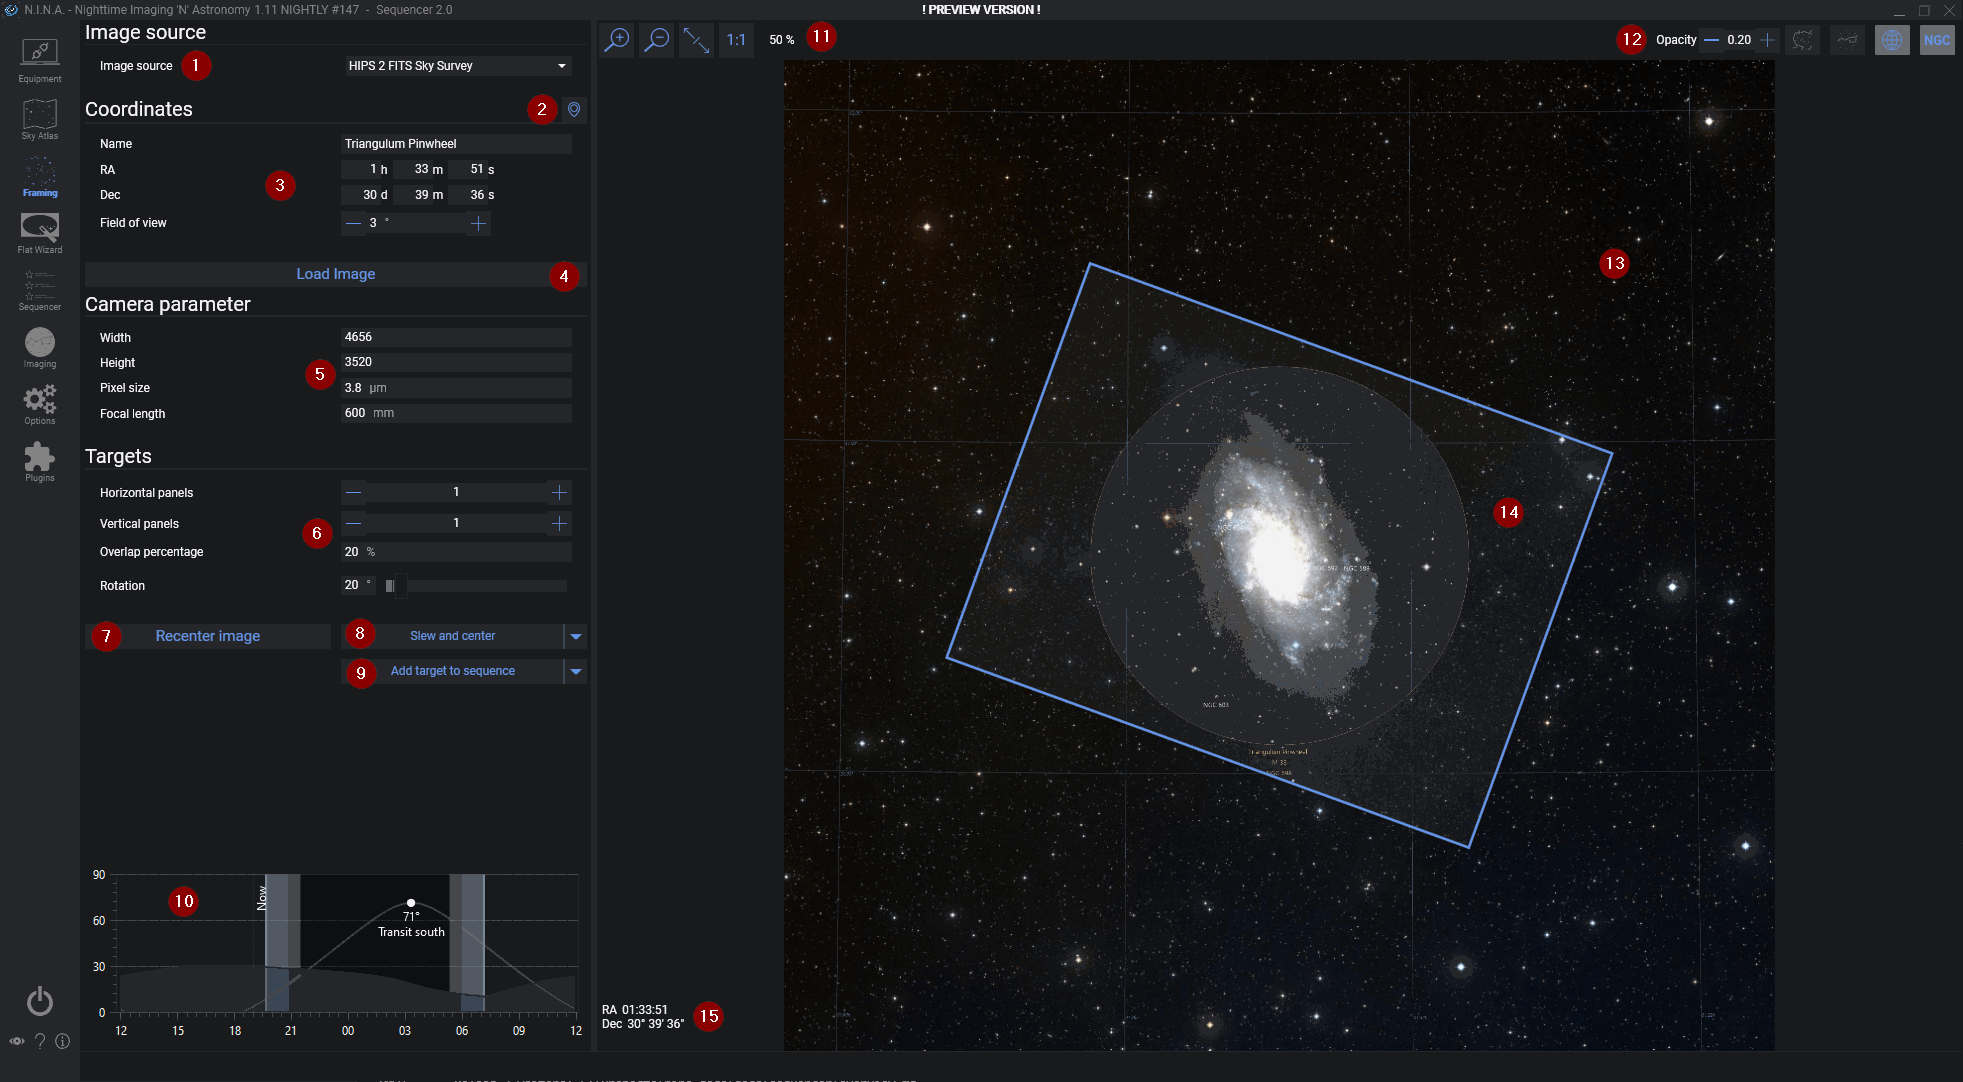
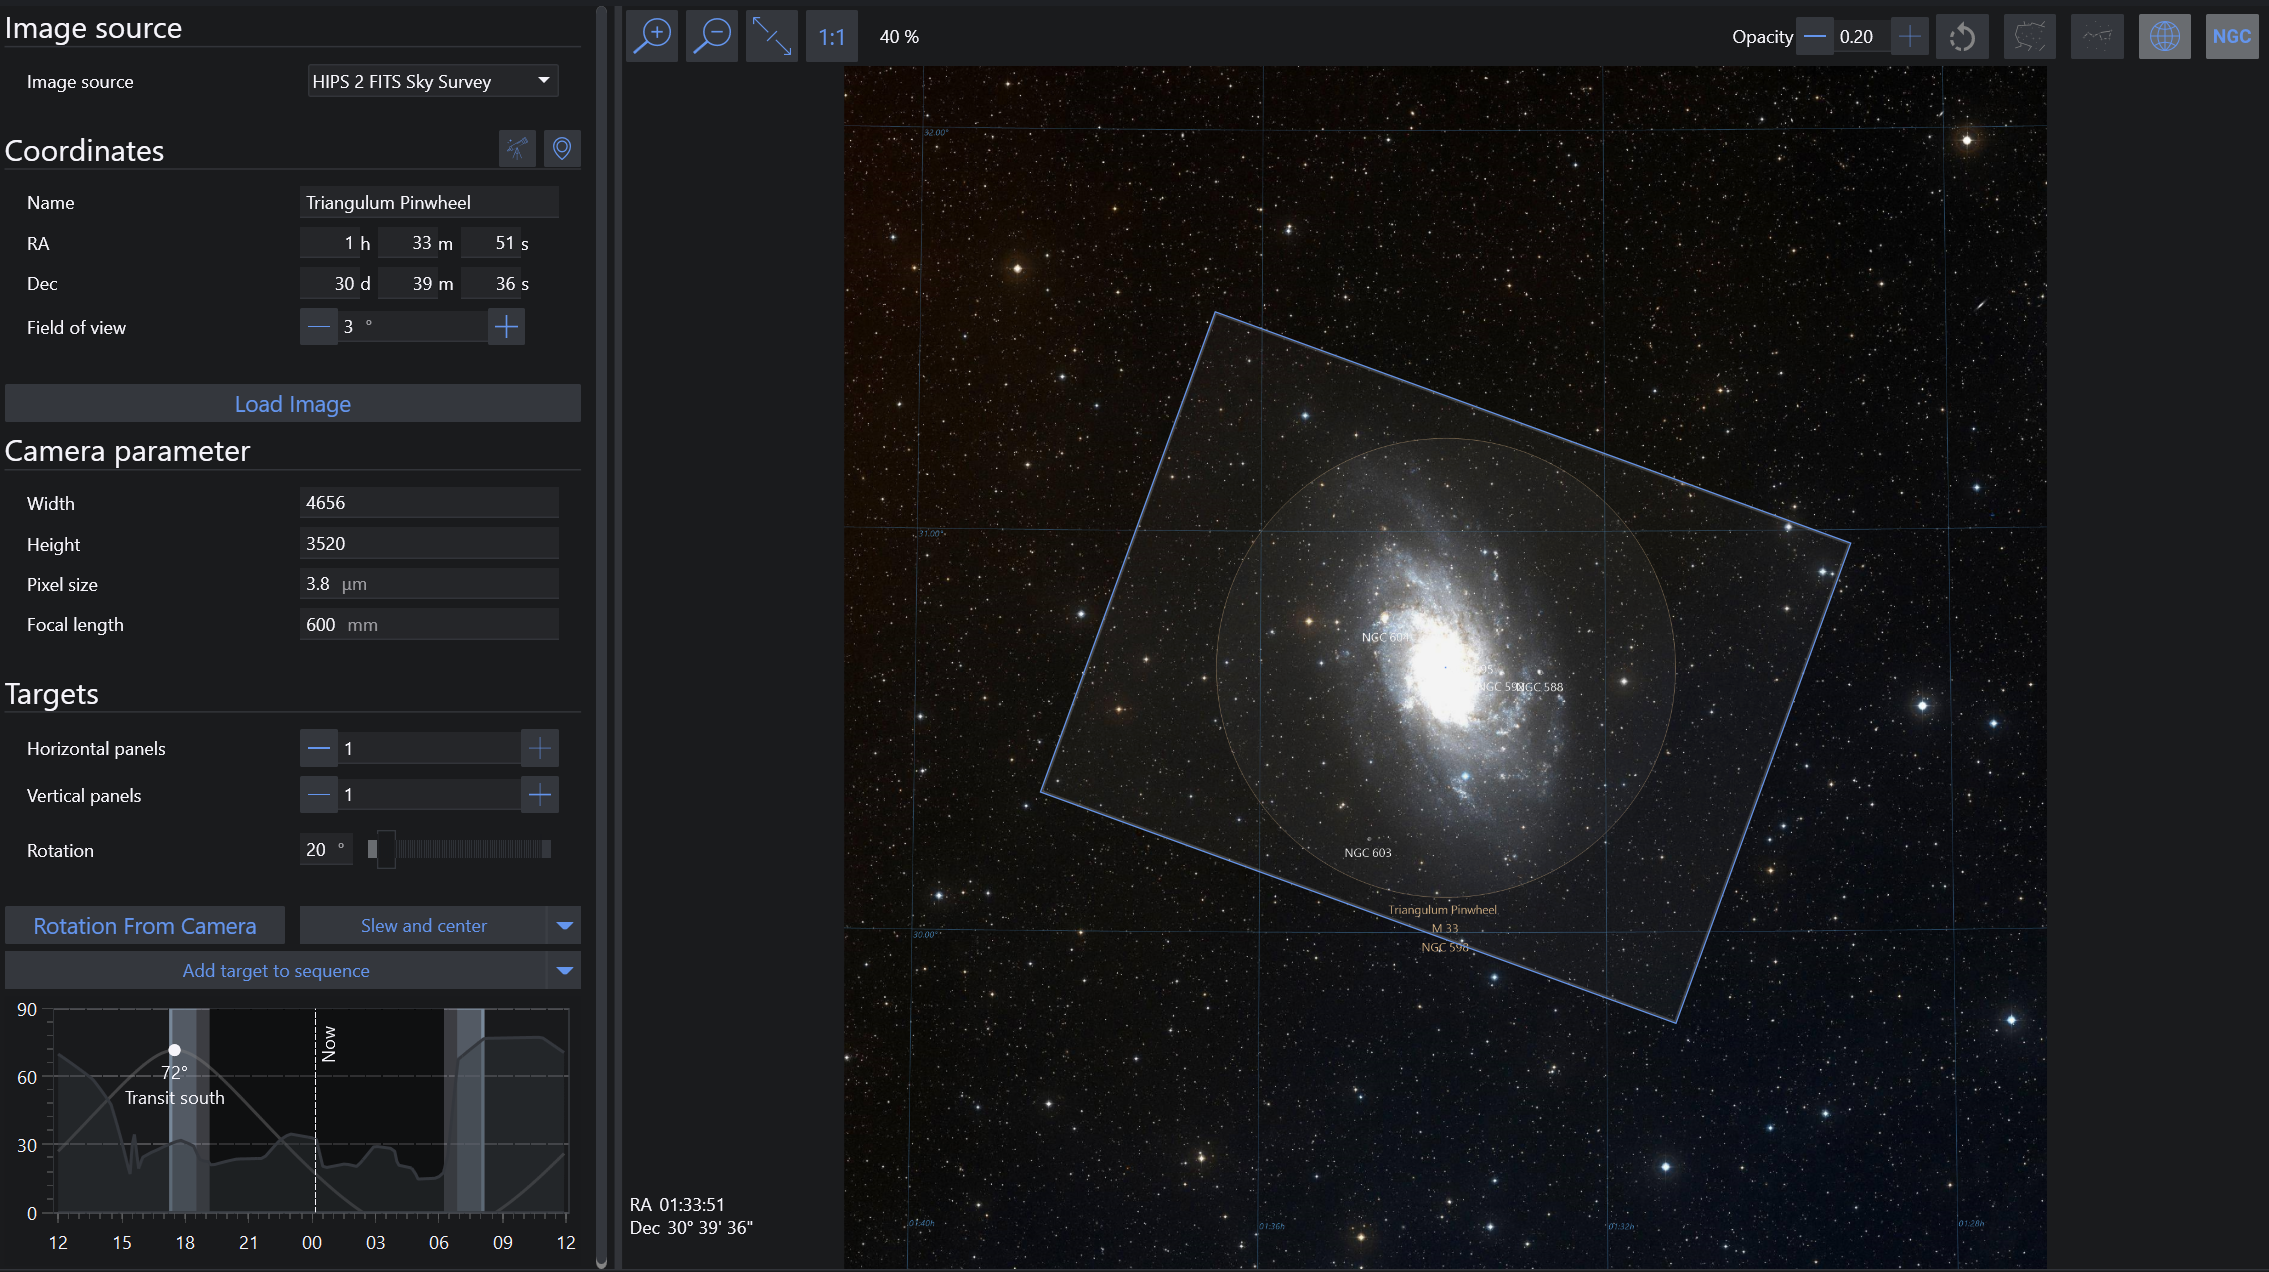
Update framing tab for new controls

diff --git a/docs/tabs/framing.md b/docs/tabs/framing.md
@@ -41,11 +41,11 @@ For further information about using the Framing Assistant refer to the [Advanced
 * Rotation can be set freely and should match your camera's orientation as determined by plate solving 
 * You can specify the number of panels for an N x M size mosaic 
 * You can specify the % overlap between each panel 
+* Furthermore it is possible to enable "preserve alignment" which becomes relevant the further away from the celestial equator (declination at 0) the object is. Having this option enabled will adjust each mosaic panel separately with its own rotation to perfectly align to a big rectangle. Keep in mind that this will require separate rotation between each panel.
     ![Mosaic](../images/tabs/framing_mosaic.PNG)
 
-### Recenter Image
-* When using a survey source, re-downloads an image of the region centered on the current coordinates set by the framing rectangle (15)
-* When using cached images or file source, the framing rectangle is centered on the image center 
+### Rotation from camera
+* This will take an exposure from your connected camera, platesolve it and determine the rotation of the frame. Afterwards the rotation of the framing is updated.
 
 ### Slew and center
 * Slews the mount to the coordinates of the center of the framing rectangle (16) and uses platesolving to recenter the mount to be precisely on target
@@ -54,6 +54,7 @@ For further information about using the Framing Assistant refer to the [Advanced
 ### Add target to sequence
 * Takes the name, coordinates of the RA and Dec and the angle of the framing window and adds it as a sequence target for either the simple sequencer or the advanced sequencer using a deep sky object template
 * In addition when clicking on the arrow and clicking on "Add target to target list", the target can be added to the advanced sequencer's target tab instead
+* A third option is to click on "Update Existing Target in Sequencer" which becomes available when there is already a target inside the sequencer and the target should be updated with the new framing instead
 
 ### Altitude browser
 * Displays the altitude of the target over time, indicating current position and meridian 
@@ -64,7 +65,7 @@ For further information about using the Framing Assistant refer to the [Advanced
 * From left to right: Zoom in, zoom out, fit image to screen, show image in original resolution 
 
 ### Annotation controls
-* From left to right: Opacity of framing rectangle, constellation boundaries, constellation annotation, equatorial grid, annotate DSOs 
+* From left to right: Rotate image instead of rectangle, Opacity of framing rectangle, constellation boundaries, constellation annotation, equatorial grid, annotate DSOs 
 
 ### Image
 * The image as downloaded from the sky survey, cache, Sky Atlas or provided by **From File** 
